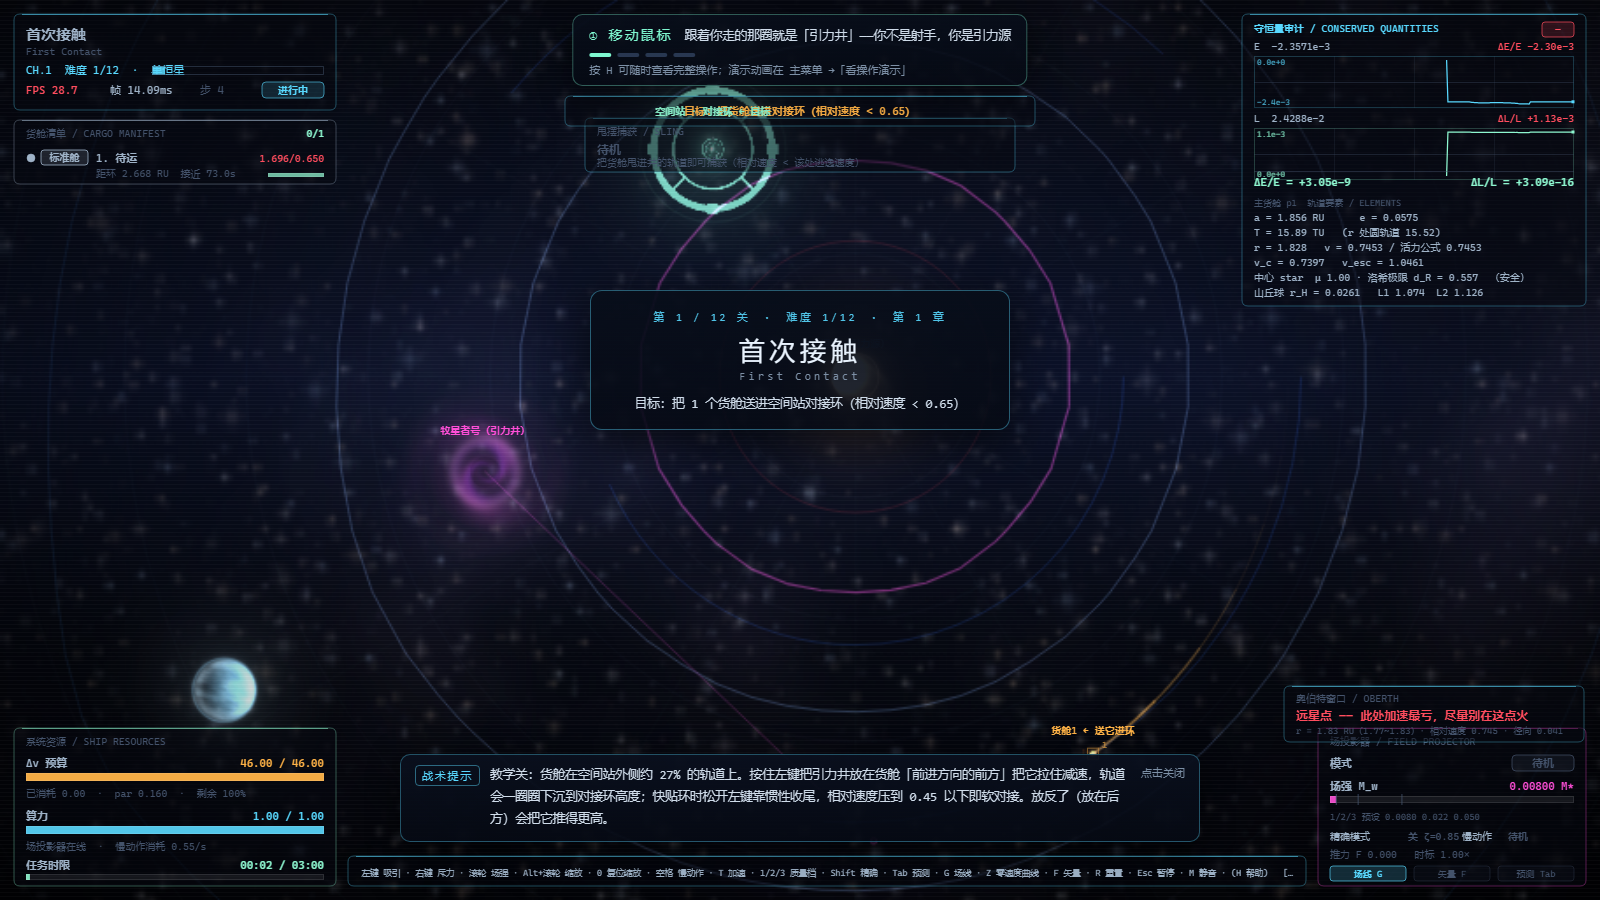
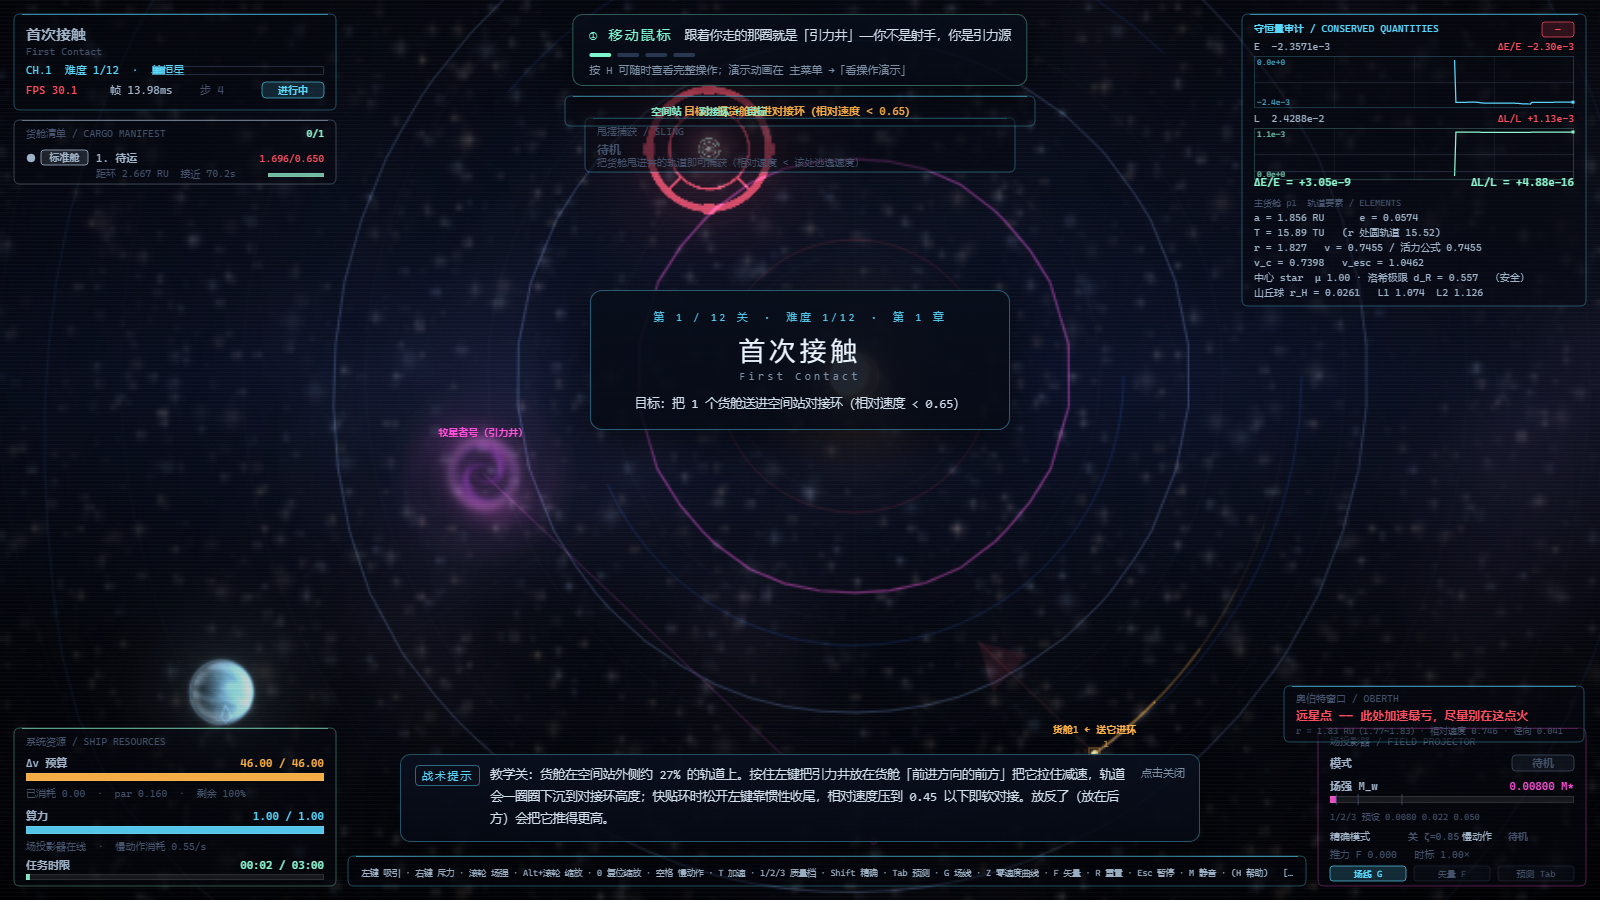
feat(sling): 甩摆收尾 —— 稳定阻尼 + 甩摆窗口提示（第 3 项补齐）
**① 小幅稳定阻尼**（src/sim/step.ts 的 wellCaptureAssist）
* **只对已被引力井捕获的货舱生效**：判据与 HUD 捕获面板同源（μ_eff = M_w·cut(r)，
  |v_rel| < sqrt(2μ_eff/r)），不是另写一套；未捕获的直接跳过，零影响
* **只阻尼相对井的径向速度分量**，切向速度完全不动 —— 切向决定轨道能量，
  动它等于白送或白扣玩家的燃料；径向摆动才是"看起来乱飘"的来源
* 系数 K_SLING_DAMP = 0.05 /TU，刻意很小

**② 甩摆窗口提示**（hud.ts）
捕获且接近**近井点**时提示"⚑ 甩摆窗口：现在松手可获得最大抛射速度"。
近井点用相对**井**的径向距离历史极小判定 —— 与相对恒星的 Oberth 判定**分开跟踪**
（两者参考系不同，混用会给出错的时机）。换关时一并重置。

**实测（无头）**
把货舱以 0.80×圆速度放进井的束缚轨道（明显椭圆），观察相对井的径向距离：
  早期半径 [0.608, 0.475, 1.390, 1.695, 1.387, 1.157]
  后期半径 [1.658, 1.589, 1.595, 1.600, 1.600, 1.599]
  振幅 1.2202 → **0.0695**（压掉 94%）
→ 径向摆动被压住、最终稳定在近圆轨道上（相对移动中的井）—— 玩家此后松手即可**可预期**地甩出。
无 JS 报错 ✓

验收：validate PASS 0 问题 / physics 123/123 / 可行性 20/20 /
      Kozai 15/15 · 转移 9/9 · 1PN 6/6 · CR3BP 19/19 · 事件 7/7 /
      回归 6/20 / verify_ui 38/38 / verify_offline 8/8

diff --git a/src/sim/step.ts b/src/sim/step.ts
@@ -483,6 +483,40 @@ function advanceObjective(world: World): void {
     `航段 ${lv.objectiveIndex + 1}/${list.length} · ${o.label_zh ?? '下一个目标'}`);
 }
 
+/** 甩摆稳定阻尼系数（1/TU）。刻意很小：只压径向摆动，不改切向速度。 */
+const K_SLING_DAMP = 0.05;
+
+/**
+ * 甩摆稳定阻尼：**只对已被引力井捕获的货舱**生效，且只阻尼相对井的**径向**速度分量。
+ *
+ * 为什么只动径向：切向速度决定轨道能量，动它等于白送或白扣玩家的燃料；径向摆动才是
+ * "看起来乱飘"的来源。压住它，玩家能预期货舱下一圈怎么走——这正是"只做特定"的辅助。
+ * 判据与 HUD 捕获面板同源：μ_eff = M_w·cut(r)，|v_rel| < sqrt(2μ_eff/r) 视为被捕获。
+ */
+function wellCaptureAssist(world: World, dt: number): void {
+  if (!world.fieldEnabled) return;
+  const wl = world.well;
+  if (!(wl.mass > 0)) return;
+  for (let i = 0; i < world.pods.length; i++) {
+    const p = world.pods[i];
+    if (!p.alive || p.delivered) continue;
+    const dx = p.x - wl.x;
+    const dy = p.y - wl.y;
+    const r = Math.hypot(dx, dy);
+    if (!(r > 1e-4) || r > WELL_RANGE * 2.2) continue;
+    const cut = 1 / (1 + Math.pow(r / WELL_RANGE, 6));
+    const mu = wl.mass * cut;
+    const rvx = p.vx - wl.vx;
+    const rvy = p.vy - wl.vy;
+    const v2 = rvx * rvx + rvy * rvy;
+    if (v2 >= (2 * mu) / r) continue;                 // 没被捕获：不干预
+    const rad = (rvx * dx + rvy * dy) / r;            // 径向速度分量
+    const damp = Math.min(0.5, K_SLING_DAMP * dt);
+    p.vx -= rad * damp * (dx / r);
+    p.vy -= rad * damp * (dy / r);
+  }
+}
+
 function applyShower(world: World, dt: number): void {
   const list = world.level.events;
   if (!list || !list.length) return;
@@ -868,6 +902,7 @@ export function stepOnce(world: World, dt: number, depth = 0): void {
   applyFlare(world, dt);
   applyWave(world, dt);
   applyShower(world, dt);
+  wellCaptureAssist(world, dt);
   updateTrails(world, dt);
 }
 

diff --git a/src/ui/hud.ts b/src/ui/hud.ts
@@ -1040,11 +1040,14 @@ export class Hud {
    */
   /** 飞船相对主星的径向距离历史极小/极大（Oberth 提示用） */
   private rMin = Number.POSITIVE_INFINITY;
+  /** 相对**井**的径向距离历史极小（甩摆窗口判定；与相对恒星的 rMin 分开） */
+  private rWellMin = Number.POSITIVE_INFINITY;
+  private rWellMax = 0;
   private rMax = 0;
 
   /** 每关重置（换关/重开时调用）。 */
   /** 换关时由 game 层调用，清空 Oberth 的径向历史（因此是 public） */
-  resetOberth(): void { this.rMin = Number.POSITIVE_INFINITY; this.rMax = 0; }
+  resetOberth(): void { this.rMin = Number.POSITIVE_INFINITY; this.rMax = 0; this.rWellMin = Number.POSITIVE_INFINITY; this.rWellMax = 0; }
 
   /**
    * Oberth 效应提示。
@@ -1207,9 +1210,15 @@ export class Hud {
         const T = 2 * Math.PI * Math.sqrt((a * a * a) / Math.max(1e-9, mu));
         const ecc = Math.sqrt(Math.max(0, 1 - (r * v * v) / mu));
         const peri = a * (1 - ecc);
-        line1 = `已捕获 · 周期 ${T.toFixed(1)}s`;
+
+        // 甩摆窗口：相对井的径向距离接近历史极小 → 松手能抛出最大速度
+        if (r < this.rWellMin) this.rWellMin = r;
+        if (r > this.rWellMax) this.rWellMax = r;
+        const wspan = this.rWellMax - this.rWellMin;
+        const atPeri = wspan > 1e-4 && r < this.rWellMin + wspan * 0.10;        line1 = `已捕获 · 周期 ${T.toFixed(1)}s`;
         col = pal.station;
         line2 = `相对速度 ${v.toFixed(3)} / 逃逸 ${vEsc.toFixed(3)} · 近井点 ${peri.toFixed(2)} RU · 松手即沿当前速度方向甩出`;
+        if (atPeri) line2 += '  ⚑ 甩摆窗口：现在松手可获得最大抛射速度';
         break;
       }
     }
